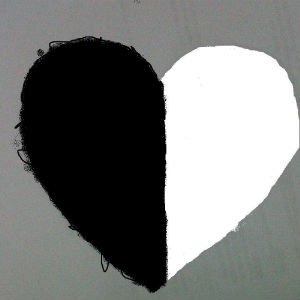
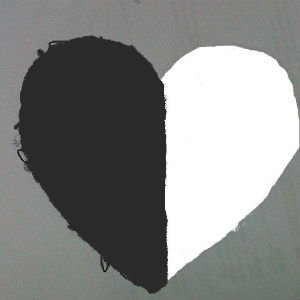
comentarios listos

diff --git a/Genetico_Final.py b/Genetico_Final.py
@@ -5,23 +5,27 @@ import matplotlib.pyplot as plt
 from matplotlib.animation import FuncAnimation
 
 
-""" Parámetros del algoritmo genético """
+""" DEFINICIÓN DE PARÁMETROS, CARGA IMAGEN & FUNCIONES AUXILIARES """
 
 TAM_POBLACION = 100         # Número de individuos por generación
 NUM_POLIGONO = 90           # Cantidad de polígonos por individuo, ADN
-VERT_POLIGONO = 4           # Cantidad vértices en los polígonos
+VERT_POLIGONO = 6           # Cantidad vértices en los polígonos
 TASA_MUTACION = 0.04        # Probabilidad de mutación sobre los poligonos en cada individuo 
 GENERACIONES = 3000         # Cantidad de generaciones 
 TAM_IMAGEN = (256, 256)     # Tamaño de la imagen de referencia
-TAM_INICIAL_POLIGONO = 30   # Tamaño inicial para los polígonos
-TAM_FINAL_POLIGONO = 10     # Tamaño final de los polígonos
+TAM_INICIAL_POLIGONO = 80   # Tamaño inicial para los polígonos
+TAM_FINAL_POLIGONO = 20     # Tamaño final de los polígonos
 
 """ Cargar imagen de referencia en escala de grises """
-ima_referencia = Image.open("imagen.png").convert("L")
+ima_referencia = Image.open("imagen.jpg").convert("L")
 ima_referencia = ima_referencia.resize(TAM_IMAGEN)
 array_referencia = np.array(ima_referencia)
 
 # Función para calcular el tamaño de los polígonos en función de la generación
+""" Esta función ajusta el tamaño de los polígonos
+conforme avanzan las generaciones. Los polígonos
+se hacen más pequeños """
+
 def calcular_tam_poligono(generacion):
     return max(TAM_INICIAL_POLIGONO - (generacion * (TAM_INICIAL_POLIGONO - TAM_FINAL_POLIGONO) / GENERACIONES), TAM_FINAL_POLIGONO)
 
@@ -42,6 +46,10 @@ def crear_individuo(tamano):
     return [(random_poligono(tamano), random.randint(0, 255)) for _ in range(NUM_POLIGONO)]
 
 # Función para dibujar un individuo en una imagen
+""" Dibuja los poligonos del individuo en una imagen blanco y negro
+de tamaño 256x256, se usa la librería PIL creando la imagen y 
+pintando los poligonos sobre esta """
+
 def dibujar_individuo(individuo):
     img = Image.new('L', TAM_IMAGEN, 255)
     dibujar = ImageDraw.Draw(img)
@@ -50,21 +58,40 @@ def dibujar_individuo(individuo):
     return np.array(img)
 
 # Función de evaluación (fitness)
+""" Se forma el fitness, esto para evaluar que individuo es el más apto
+para cruzar en las siguientes generaciones, se calcula la diferencia
+entre la imagen de referencia y la generada con los polígonos. A menos
+diferencia entre las imagenes mejor será el fitness """
+
 def evaluar_individuo(individuo):
     dibujo_img = dibujar_individuo(individuo)
     return np.sum(np.abs(array_referencia - dibujo_img))
 
+""" SELECCION, CRUCE & MUTACIÓN """
+
 # Selección de padres basada en torneo
+""" Se hace un "torneo" para seleccionar los individuos, entre
+los individuos seleccionados aleatoriamente se sacan los que 
+tienen mejor fitness para ser los futuros padres """
+
 def seleccion_padres(poblacion, k=3):
     return min(random.sample(poblacion, k), key=lambda ind: ind[1])
 
 # Cruza de dos individuos (crossover)
+""" Se hace la mezcla o cruce de los individuos, el hijo que resulta
+tiene partes de cada uno de los padres, seleccionando una parte o punto
+aleatoria del ADN para corte """
+
 def cruce(padre1, padre2):
     point = random.randint(1, len(padre1) - 1)
     hijo = padre1[:point] + padre2[point:]
     return hijo
 
 # Mutación de un individuo con variación de tamaños de polígonos
+""" Al aplicar la mutación a un individuo en base a la probabilidad
+de la tasa de mutación para que un poligono sea reemplazado, duplicar
+o modificar ligeramente, esto límitado a la cantidad de poligonos del individuo """
+
 def mutacion(individuo, tamano, generacion):
     for i in range(len(individuo)):
         if random.random() < TASA_MUTACION:
